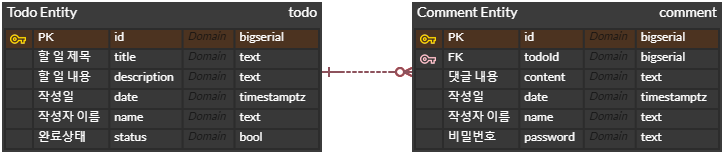
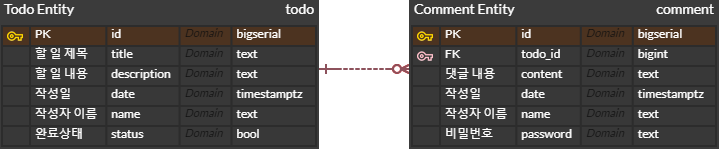
FEATURE: "add comment feature"
댓글을 작성, 수정, 삭제할 수 있는 기능 추가

diff --git a/src/main/kotlin/com/teamsparta/mytodolist/domain/comment/service/CommentServiceImpl.kt b/src/main/kotlin/com/teamsparta/mytodolist/domain/comment/service/CommentServiceImpl.kt
@@ -1,0 +1,92 @@
+package com.teamsparta.mytodolist.domain.comment.service
+
+import com.teamsparta.mytodolist.domain.comment.dto.AddCommentRequestDto
+import com.teamsparta.mytodolist.domain.comment.dto.CommentResponseDto
+import com.teamsparta.mytodolist.domain.comment.dto.DeleteCommentRequestDto
+import com.teamsparta.mytodolist.domain.comment.dto.UpdateCommentRequestDto
+import com.teamsparta.mytodolist.domain.comment.model.CommentModel
+import com.teamsparta.mytodolist.domain.comment.model.toRespond
+import com.teamsparta.mytodolist.domain.comment.repository.CommentRepository
+import com.teamsparta.mytodolist.domain.exception.ModelNotFoundException
+import com.teamsparta.mytodolist.domain.todo.model.toResponse
+import com.teamsparta.mytodolist.domain.todo.repository.TodoRepository
+import org.springframework.data.repository.findByIdOrNull
+import org.springframework.stereotype.Service
+import org.springframework.transaction.annotation.Transactional
+import java.time.LocalDateTime
+
+@Service //CommentServiceImpl를 Service Layer를 담당하는 bean으로 설정
+class CommentServiceImpl(
+    private val todoRepository: TodoRepository,
+    private val commentRepository: CommentRepository
+): CommentService {
+
+    //선택한 할 일 카드에 작성된 댓글을 모두 가져오는 메소드
+    //Entity로 DB에서 값을 가져와서 응답(Response) DTO 리스트로 바꾸고, Controller로 전달
+    override fun getCommentList(todoId: Long): List<CommentResponseDto> {
+        val todo = todoRepository.findByIdOrNull(todoId) ?: throw ModelNotFoundException("Todo", todoId)
+        return todo.comments.map { it.toRespond() }
+    }
+
+    /*
+    * 선택한 할 일 카드에 댓글을 작성하는 메소드
+    * Controller로부터 생성 요청(Request) DTO를 받는다.
+    * 생성 요청(Request) DTO에 있는 값을 Entity에 담아서 DB로 전달
+    * 그 후 응답(Response) DTO를 Controller에 전달
+    */
+    @Transactional
+    override fun addComment(todoId: Long, addCommentRequestDto: AddCommentRequestDto): CommentResponseDto {
+        val todo = todoRepository.findByIdOrNull(todoId) ?: throw ModelNotFoundException("Todo", todoId)
+        val comment = CommentModel(
+            content = addCommentRequestDto.content,
+            date = LocalDateTime.now(),
+            name = addCommentRequestDto.name,
+            password = addCommentRequestDto.password,
+            todoId = todoId
+        )
+        todo.comments.add(comment)
+        todoRepository.save(todo)
+
+        return comment.toRespond()
+    }
+
+    /*
+    * 선택한 할 일 카드에 작성된 댓글 하나를 선택하여 수정하는 메소드
+    * Controller로부터 수정 요청(Request) DTO를 받는다.
+    * 수정 요청(Request) DTO에 있는 값을 Entity에 담아서 DB로 전달
+    * 그 후 응답(Response) DTO를 Controller에 전달
+    */
+    @Transactional
+    override fun updateComment(
+        todoId: Long,
+        commentId: Long,
+        updateCommentRequestDto: UpdateCommentRequestDto
+    ): CommentResponseDto {
+        val comment = commentRepository.findByTodoIdAndId(todoId, commentId) ?: throw ModelNotFoundException("Comment", commentId)
+        if(comment.name != updateCommentRequestDto.name || comment.password != updateCommentRequestDto.password) throw IllegalStateException("Name or password is incorrect")
+
+        comment.content = updateCommentRequestDto.content
+        return commentRepository.save(comment).toRespond()
+    }
+
+    /*
+    * 선택한 할 일 카드에 작성된 댓글 하나를 선택하여 삭제하는 메소드
+    * Controller로부터 삭제 요청(Request) DTO를 받는다.
+    * 삭제 요청(Request) DTO에 있는 값을 Entity에 담아서 DB로 전달
+    * 그 후 응답(Response) DTO를 Controller에 전달
+    */
+    @Transactional
+    override fun deleteComment(
+        todoId: Long,
+        commentId: Long,
+        deleteCommentRequestDto: DeleteCommentRequestDto
+    ): CommentResponseDto {
+        val todo = todoRepository.findByIdOrNull(todoId) ?: throw ModelNotFoundException("Todo", todoId)
+        val comment = commentRepository.findByTodoIdAndId(todoId, commentId) ?: throw ModelNotFoundException("Comment", commentId)
+        if(comment.name != deleteCommentRequestDto.name || comment.password != deleteCommentRequestDto.password) throw IllegalStateException("Name or password is incorrect")
+
+        todo.comments.remove(comment)
+        todoRepository.save(todo)
+        return comment.toRespond()
+    }
+}

diff --git a/src/main/kotlin/com/teamsparta/mytodolist/domain/comment/controller/CommentController.kt b/src/main/kotlin/com/teamsparta/mytodolist/domain/comment/controller/CommentController.kt
@@ -4,6 +4,7 @@ import com.teamsparta.mytodolist.domain.comment.dto.AddCommentRequestDto
 import com.teamsparta.mytodolist.domain.comment.dto.CommentResponseDto
 import com.teamsparta.mytodolist.domain.comment.dto.DeleteCommentRequestDto
 import com.teamsparta.mytodolist.domain.comment.dto.UpdateCommentRequestDto
+import com.teamsparta.mytodolist.domain.comment.service.CommentService
 import org.springframework.web.bind.annotation.*
 
 /*
@@ -13,12 +14,14 @@ import org.springframework.web.bind.annotation.*
 */
 @RequestMapping("/todos/{todoId}/comments") // base URI 경로 하위에 해당하는 건 전부 CommentController가 담당하게 됨
 @RestController //CommentController를 Controll layer를 담당하는 Bean으로 등록
-class CommentController {
+class CommentController(
+    private val commentService: CommentService
+) {
     @GetMapping() //GET 메소드 핸들링, /todos/{todoId}/comments에 접근한다
     //선택한 할 일 카드에 작성된 댓글을 모두 가져오는 메소드
     //todoId를 argument로 받아서 CommentResponseDto를 리스트 형태로 반환
     fun getCommentList(@PathVariable todoId: Long): List<CommentResponseDto>{
-        TODO()
+        return commentService.getCommentList(todoId)
     }
 
     @PostMapping()//POST 메소드 핸들링, /todos/{todoId}/comments에 접근한다
@@ -28,7 +31,7 @@ class CommentController {
         @PathVariable todoId: Long,
         @RequestBody addCommentRequestDto: AddCommentRequestDto
     ): CommentResponseDto{
-        TODO()
+        return commentService.addComment(todoId, addCommentRequestDto)
     }
 
     @PutMapping("/{commentId}") //PUT 메소드 핸들링, /todos/{todoId}/comments/{commentId}에 접근한다
@@ -39,7 +42,7 @@ class CommentController {
         @PathVariable commentId: Long,
         @RequestBody updateCommentRequestDto: UpdateCommentRequestDto
     ): CommentResponseDto{
-        TODO()
+        return commentService.updateComment(todoId, commentId, updateCommentRequestDto)
     }
 
     @DeleteMapping("/{commentId}") //DELETE 메소드 핸들링, /todos/{todoId}/comments/{commentId}에 접근한다
@@ -50,6 +53,6 @@ class CommentController {
         @PathVariable commentId: Long,
         @RequestBody deleteCommentRequestDto: DeleteCommentRequestDto
     ): CommentResponseDto{
-        TODO()
+        return commentService.deleteComment(todoId, commentId, deleteCommentRequestDto)
     }
 }

diff --git a/src/main/kotlin/com/teamsparta/mytodolist/domain/comment/service/CommentService.kt b/src/main/kotlin/com/teamsparta/mytodolist/domain/comment/service/CommentService.kt
@@ -1,0 +1,43 @@
+package com.teamsparta.mytodolist.domain.comment.service
+
+import com.teamsparta.mytodolist.domain.comment.dto.AddCommentRequestDto
+import com.teamsparta.mytodolist.domain.comment.dto.CommentResponseDto
+import com.teamsparta.mytodolist.domain.comment.dto.DeleteCommentRequestDto
+import com.teamsparta.mytodolist.domain.comment.dto.UpdateCommentRequestDto
+
+/*
+* Spring의 Layer의 일부
+* Service Layer : Web Layer 하위에 존재하는 Layer
+* 트랜잭션(Transaction) 경계의 역할
+* Application Service : 응답(response)을 WebLayer(그중에서도 controller)에 넘겨주는 역할
+*/
+interface CommentService {
+    //선택한 할 일 카드에 작성된 댓글을 모두 가져오는 메소드
+    //Entity로 DB에서 값을 가져와서 응답(Response) DTO 리스트로 바꾸고, Controller로 전달
+    fun getCommentList(todoId: Long): List<CommentResponseDto>
+
+    /*
+    * 선택한 할 일 카드에 댓글을 작성하는 메소드
+    * Controller로부터 생성 요청(Request) DTO를 받는다.
+    * 생성 요청(Request) DTO에 있는 값을 Entity에 담아서 DB로 전달
+    * 그 후 응답(Response) DTO를 Controller에 전달
+    */
+    fun addComment(todoId: Long, addCommentRequestDto: AddCommentRequestDto): CommentResponseDto
+
+
+    /* 
+    * 선택한 할 일 카드에 작성된 댓글 하나를 선택하여 수정하는 메소드
+    * Controller로부터 수정 요청(Request) DTO를 받는다.
+    * 수정 요청(Request) DTO에 있는 값을 Entity에 담아서 DB로 전달
+    * 그 후 응답(Response) DTO를 Controller에 전달
+    */
+    fun updateComment(todoId: Long, commentId: Long, updateCommentRequestDto: UpdateCommentRequestDto): CommentResponseDto
+
+    /*
+    * 선택한 할 일 카드에 작성된 댓글 하나를 선택하여 삭제하는 메소드
+    * Controller로부터 삭제 요청(Request) DTO를 받는다.
+    * 삭제 요청(Request) DTO에 있는 값을 Entity에 담아서 DB로 전달
+    * 그 후 응답(Response) DTO를 Controller에 전달
+    */
+    fun deleteComment(todoId: Long, commentId: Long, deleteCommentRequestDto: DeleteCommentRequestDto): CommentResponseDto
+}

diff --git a/src/main/kotlin/com/teamsparta/mytodolist/domain/comment/model/CommentModel.kt b/src/main/kotlin/com/teamsparta/mytodolist/domain/comment/model/CommentModel.kt
@@ -1,0 +1,43 @@
+package com.teamsparta.mytodolist.domain.comment.model
+
+import com.teamsparta.mytodolist.domain.comment.dto.CommentResponseDto
+import com.teamsparta.mytodolist.domain.todo.model.TodoModel
+import jakarta.persistence.*
+import org.springframework.http.ResponseEntity
+import java.time.LocalDateTime
+
+
+//Domain Model: Domain Service, Entity, VO(Value Object)를 포함하는 개념
+
+@Entity //Entity annotation, 객체(class)를 entity로 사용하기 위해서 사용
+@Table(name = "comment") //매핑할 테이블 이름을 정의
+class CommentModel(
+    @Column(name = "content") //매핑할 테이블의 컬럼을 정의
+    var content: String, //댓글 내용은 수정 가능, null 허용 X
+
+    @Column(name = "date") //매핑할 테이블의 컬럼을 정의
+    val date: LocalDateTime, //날짜는 수정 불가능, null 허용 X
+
+    @Column(name = "name") //매핑할 테이블의 컬럼을 정의
+    val name: String, //작성자 이름은 수정 불가능, null 허용 X
+
+    @Column(name = "password")
+    val password: String, //비밀번호는 수정 불가능, null 허용 X
+
+    @Column(name = "todo_id")
+    val todoId: Long
+
+){
+    @Id
+    @GeneratedValue(strategy = GenerationType.IDENTITY) //DB에서 ID를 자동으로 생성
+    var id:Long? = null //DB에서 ID를 만들기 때문에 var 키워드를 사용
+}
+
+fun CommentModel.toRespond(): CommentResponseDto{
+    return CommentResponseDto(
+        id = id!!,
+        content = content,
+        name = name,
+        date = date
+    )
+}

diff --git a/src/main/kotlin/com/teamsparta/mytodolist/domain/exception/GlobalExceptionHandler.kt b/src/main/kotlin/com/teamsparta/mytodolist/domain/exception/GlobalExceptionHandler.kt
@@ -1,6 +1,8 @@
 package com.teamsparta.mytodolist.domain.exception
 
 import com.teamsparta.mytodolist.domain.exception.dto.ErrorResponseDto
+import org.springframework.http.HttpStatus
+import org.springframework.http.ResponseEntity
 import org.springframework.web.bind.annotation.ExceptionHandler
 import org.springframework.web.bind.annotation.RestControllerAdvice
 
@@ -12,8 +14,13 @@ import org.springframework.web.bind.annotation.RestControllerAdvice
 class GlobalExceptionHandler {
     @ExceptionHandler(ModelNotFoundException::class)
     //ModelNotFoundException: 하위 layer에서 id로 검색에 실패했을 때 발생하는 에러
-    //에러가 발생하면 메시지를 DTO에 응답(response)한다.
-    fun handleModelNotFoundException(e: ModelNotFoundException): ErrorResponseDto{
-        return ErrorResponseDto(e.message)
+    //에러가 발생하면 ResponseEntity를 반환한다.
+    fun handleModelNotFoundException(e: ModelNotFoundException): ResponseEntity<ErrorResponseDto>{
+        return ResponseEntity.status(HttpStatus.NOT_FOUND).body(ErrorResponseDto(e.message))
+    }
+
+    @ExceptionHandler(IllegalStateException::class)
+    fun handleIllegalStateException(e: IllegalStateException): ResponseEntity<ErrorResponseDto>{
+        return ResponseEntity.status(HttpStatus.BAD_REQUEST).body(ErrorResponseDto(e.message))
     }
 }

diff --git a/src/main/kotlin/com/teamsparta/mytodolist/domain/todo/model/TodoModel.kt b/src/main/kotlin/com/teamsparta/mytodolist/domain/todo/model/TodoModel.kt
@@ -1,5 +1,6 @@
 package com.teamsparta.mytodolist.domain.todo.model
 
+import com.teamsparta.mytodolist.domain.comment.model.CommentModel
 import com.teamsparta.mytodolist.domain.todo.dto.TodoResponseDto
 import jakarta.persistence.*
 import java.time.LocalDateTime
@@ -22,7 +23,10 @@ class TodoModel( //데이터베이스에서 데이터를 가져올 때 사용하
     var name: String, //작성자 이름은 수정 가능, null 허용 X
 
     @Column(name = "status")
-    var status: Boolean
+    var status: Boolean,
+
+    @OneToMany(mappedBy = "todoId", fetch = FetchType.LAZY, cascade=[CascadeType.ALL], orphanRemoval = true)
+    var comments:MutableList<CommentModel> = mutableListOf()
 ) {
     @Id //PK 설정
     @GeneratedValue(strategy = GenerationType.IDENTITY) //DB에서 ID를 자동으로 생성

diff --git a/src/main/kotlin/com/teamsparta/mytodolist/domain/todo/service/TodoServiceImpl.kt b/src/main/kotlin/com/teamsparta/mytodolist/domain/todo/service/TodoServiceImpl.kt
@@ -13,7 +13,6 @@ import org.springframework.stereotype.Service
 import org.springframework.transaction.annotation.Transactional
 import java.time.LocalDateTime
 
-
 /*
 * Spring의 Layer의 일부
 * Service Layer : Web Layer 하위에 존재하는 Layer
@@ -75,11 +74,10 @@ class TodoServiceImpl(
         return todoRepository.save(todo).toResponse()
     }
 
+    @Transactional
     override fun updateTodoStatus(id: Long, requestDto: UpdateTodoStatusRequestDto): TodoResponseDto {
         val todo = todoRepository.findByIdOrNull(id) ?: throw ModelNotFoundException("Todo", id)
-
         todo.status = requestDto.status
-
         return todoRepository.save(todo).toResponse()
     }
 

diff --git a/src/main/kotlin/com/teamsparta/mytodolist/domain/comment/repository/CommentRepository.kt b/src/main/kotlin/com/teamsparta/mytodolist/domain/comment/repository/CommentRepository.kt
@@ -1,0 +1,14 @@
+package com.teamsparta.mytodolist.domain.comment.repository
+
+import com.teamsparta.mytodolist.domain.comment.model.CommentModel
+import org.springframework.data.jpa.repository.JpaRepository
+
+/*
+* Spring Layer의 일부
+* Repository layer: 가장 하위에 존재하는 Layer
+* 데이터베이스와 통신하는 역할 담당 (값 수정, 값 추가, 삭제, 값 가져오기 등)
+* Java 및 kotlin 객체를 사용해서 DB에 대해 CRUD를 쉽게 할 수 있도록 하는 JPA를 사용해서 DB와 통신
+*/
+interface CommentRepository: JpaRepository<CommentModel, Long> {
+    fun findByTodoIdAndId(todoId: Long, commentId: Long): CommentModel?
+}

diff --git a/src/main/kotlin/com/teamsparta/mytodolist/domain/comment/dto/CommentResponseDto.kt b/src/main/kotlin/com/teamsparta/mytodolist/domain/comment/dto/CommentResponseDto.kt
@@ -1,5 +1,7 @@
 package com.teamsparta.mytodolist.domain.comment.dto
 
+import java.time.LocalDateTime
+
 /*
 * DTO: 각 Layer 사이의 데이터를 전달하는데 사용
 * 응답(Request)과 요청(Response) 또한 DTO로 표현 가능
@@ -9,4 +11,5 @@ data class CommentResponseDto(
     val id: Long, //댓글 번호
     val content: String, //댓글 내용을 나타내는 변수
     val name: String, //작성자 이름을 나타내는 변수
+    val date: LocalDateTime //댓글 작성한 날짜
 )

diff --git a/src/main/kotlin/com/teamsparta/mytodolist/domain/todo/controller/TodoController.kt b/src/main/kotlin/com/teamsparta/mytodolist/domain/todo/controller/TodoController.kt
@@ -54,6 +54,7 @@ class TodoController(
 
     @DeleteMapping("/{todoId}") //DELETE 메소드 핸들링, /todos/todoId에 접근한다
     //선택한 할 일을 삭제하는 메소드
+    //만약 선택된 할 일에 댓글이 적혀있다면 댓글도 전부 삭제
     fun deleteTodo(@PathVariable todoId: Long){
         return todoService.deleteTodo(todoId)
     }

diff --git a/src/main/kotlin/com/teamsparta/mytodolist/domain/comment/dto/DeleteCommentRequestDto.kt b/src/main/kotlin/com/teamsparta/mytodolist/domain/comment/dto/DeleteCommentRequestDto.kt
@@ -1,7 +1,6 @@
 package com.teamsparta.mytodolist.domain.comment.dto
 
 data class DeleteCommentRequestDto(
-    val id: Long, //댓글 번호
     val name: String, //작성자 이름을 나타내는 변수
     val password: String //작성자의 비밀번호를 나타내는 변수
 )
